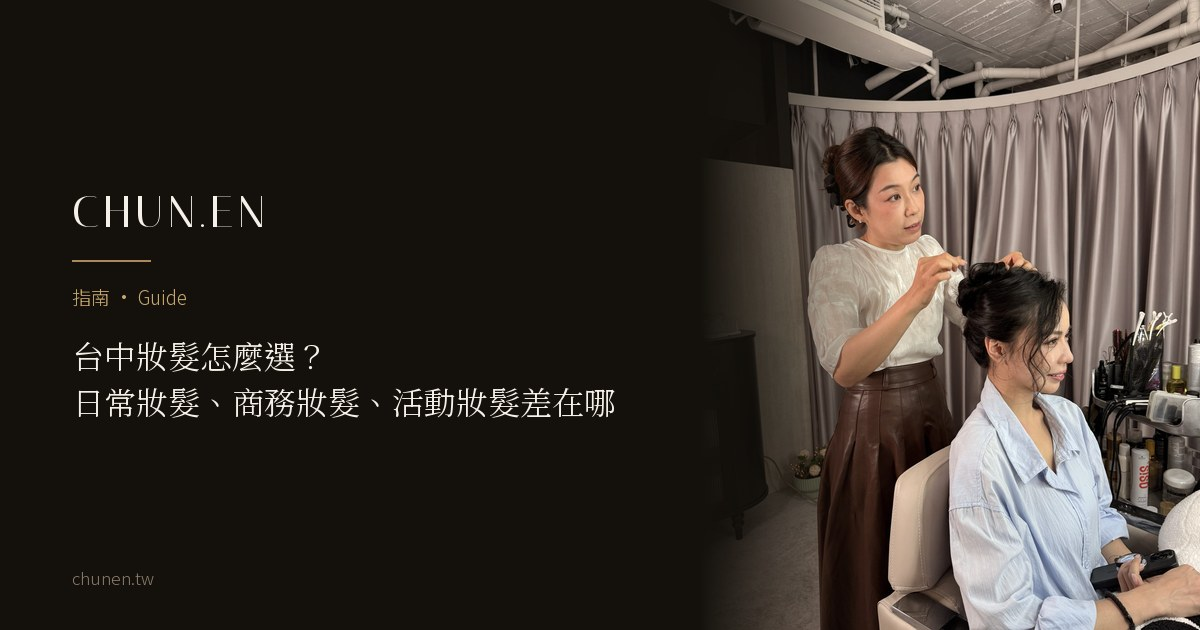
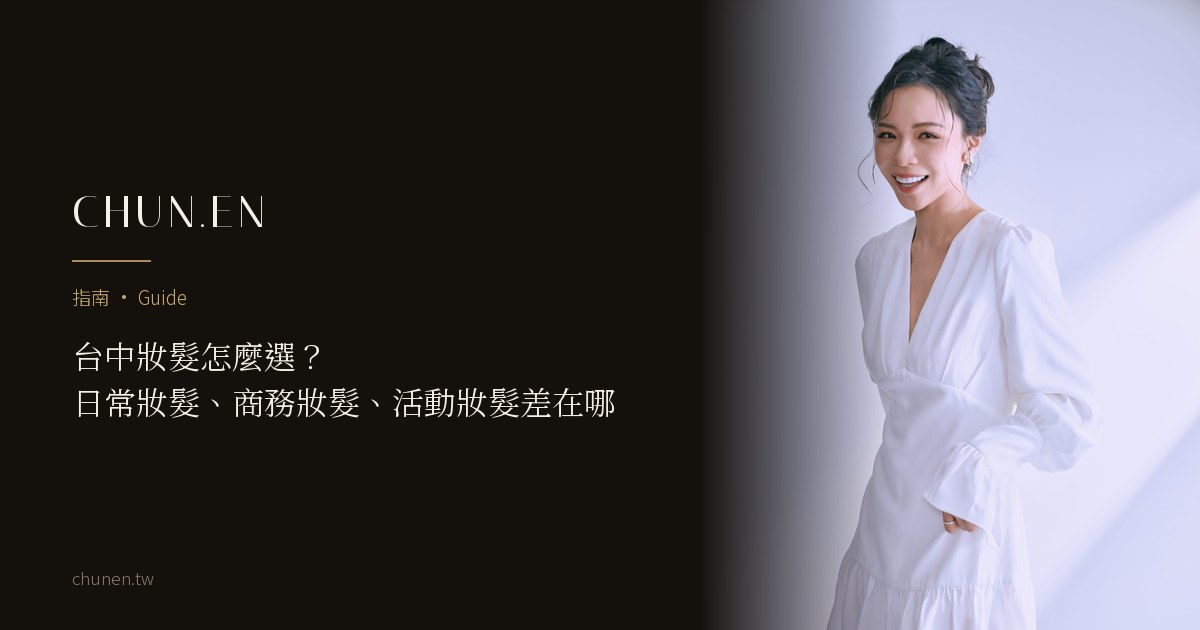
journal(B2)：三篇改用 Ori_Evoto 模特兒拍樣，活動篇不再用示意圖
老闆定調：照片不必完全切合主題，但照片不好看讀者看不下去。三篇改用 8/1 的
Ori_Evoto 模特兒拍樣（23 張，單人單套，白棚斜射光、明亮雜誌感）。
授權 user 確認無虞。

- 指南篇  hero DSC00238（站姿帶笑，好進入）／內文 DSC00223
- 商務篇  hero DSC00134（近景正面，盤髮與妝面清楚）／內文 DSC00157
- 活動篇  hero DSC00127（強光近景）／內文 DSC00555（user 指定，原挑的 362 已排除）

🎯 **活動篇的示意圖退場**。那張圖是 08/19 因為全庫沒有活動場景實拍才畫的，
一直是 B2 上架的卡點。現在有照片，hero 從 16:9 示意圖改回「整張不裁」的
直幅實拍，og 也從指向 PNG 改回正常的分享卡。內文圖同時補回（08/19 因無素材刪掉）。

🚨 順手修好一個全站靜默故障：`gen_og_cards.py` 的 hero 比對寫死
「jcard-media 後面直接接 img」，但 09/02 的 webp 改造把 hero 包進了
<picture><source>…<img>，正則從此對不上。**09/02 之後所有文章的 og 卡都產不出來，
而且回 0 張不報錯。** 已改成允許中間夾 picture/source。
⚠ 這代表 09/02 之後改過 hero 的文章，og 卡可能都還是舊的，要另外盤點。

備用素材（user 核准，已切好未使用）：
- event-hair-makeup-inline-alt543（DSC00543，橫幅 1400x933）
- event-hair-makeup-inline-alt081（DSC00081，直幅）

三篇 FAQ 與 schema 全部同步，圖檔零缺漏，仍 noindex。

diff --git a/journal/event-hair-makeup.html b/journal/event-hair-makeup.html
@@ -13,16 +13,16 @@
   <link rel="canonical" href="https://chunen.tw/journal/event-hair-makeup.html" />
   <meta property="og:title" content="活動妝髮：上台之前的最後一關" />
   <meta property="og:description" content="活動妝髮會多考慮舞台燈、攝影、觀看距離與活動時間。" />
-  <meta property="og:image" content="https://chunen.tw/assets/gallery/journal/event-hair-makeup-diagram-v1-1400.png" />
-  <meta property="og:image:width" content="1400" />
-  <meta property="og:image:height" content="788" />
+  <meta property="og:image" content="https://chunen.tw/assets/og/event-hair-makeup-og.jpg" />
+  <meta property="og:image:width" content="1200" />
+  <meta property="og:image:height" content="630" />
   <meta property="og:url" content="https://chunen.tw/journal/event-hair-makeup.html" />
   <meta property="og:type" content="article" />
   <meta property="og:locale" content="zh_TW" />
   <meta name="twitter:card" content="summary_large_image" />
   <meta name="twitter:title" content="活動妝髮：上台之前的最後一關" />
   <meta name="twitter:description" content="活動妝髮會多考慮舞台燈、攝影、觀看距離與活動時間。" />
-  <meta name="twitter:image" content="https://chunen.tw/assets/gallery/journal/event-hair-makeup-diagram-v1-1400.png" />
+  <meta name="twitter:image" content="https://chunen.tw/assets/og/event-hair-makeup-og.jpg" />
   <link rel="preconnect" href="https://fonts.googleapis.com" />
   <link rel="preconnect" href="https://fonts.gstatic.com" crossorigin />
   <link href="https://fonts.googleapis.com/css2?family=Italiana&family=Cormorant+Garamond:ital,wght@0,400;0,500;0,600;1,400;1,500&family=Noto+Serif+TC:wght@300;400&family=Noto+Sans+TC:wght@300;400;500&display=swap" rel="stylesheet" />
@@ -76,8 +76,8 @@
     </header>
 
     <div class="wrap article-wrap">
-      <div class="jcard-media rv" style="aspect-ratio: 16/9; overflow: hidden; margin-bottom: clamp(2.5rem, 6vh, 4rem);">
-        <picture style="display:block;width:100%;height:100%"><source type="image/webp" srcset="../assets/gallery/journal/event-hair-makeup-diagram-v1-760.webp 760w, ../assets/gallery/journal/event-hair-makeup-diagram-v1-1240.webp 1240w" sizes="min(940px, calc(100vw - 48px))" /><img src="../assets/gallery/journal/event-hair-makeup-diagram-v1-1400.png" alt="示意圖：活動妝髮的三個考量，燈光、距離與時間" style="width:100%;height:100%;object-fit:cover;" width="1400" height="788" fetchpriority="high" /></picture>
+      <div class="jcard-media rv" style="aspect-ratio: auto; width: auto; max-width: 620px; margin: 0 auto clamp(2.5rem, 6vh, 4rem);">
+        <picture style="display:block"><source type="image/webp" srcset="../assets/gallery/journal/event-hair-makeup-hero-v2-760.webp 760w, ../assets/gallery/journal/event-hair-makeup-hero-v2-1240.webp 1240w" sizes="(max-width: 700px) calc(100vw - 40px), 620px" /><img src="../assets/gallery/journal/event-hair-makeup-hero-v2-1400.jpg" alt="強光下的人物近景，手扶臉側，盤髮與妝面清楚" style="width:100%;height:auto;display:block;" width="1400" height="2100" fetchpriority="high" /></picture>
       </div>
 
       <div class="keypoints rv">
@@ -110,6 +110,11 @@
 
         <h2>哪些場合<em>常見活動妝髮需求</em></h2>
         <p>常見包括年會尾牙、頒獎典禮、正式晚宴、記者會、產品發表與講座。不同場合的燈光、服裝、拍攝方式與活動時間不同，妝髮也會跟著調整。如果同時需要準備講師人物影像，可延伸閱讀〈<a href="speaker-trainer-portrait.html">講師形象照</a>〉。</p>
+
+        <figure class="article-fig crop45">
+          <picture style="display:block"><source type="image/webp" srcset="../assets/gallery/journal/event-hair-makeup-inline-v2-760.webp 760w, ../assets/gallery/journal/event-hair-makeup-inline-v2-1240.webp 1240w" sizes="(max-width: 700px) calc(100vw - 40px), 620px" /><img src="../assets/gallery/journal/event-hair-makeup-inline-v2-1400.jpg" alt="人物坐在椅上的全身照，白棚與斜射光" width="1400" height="2100" loading="lazy" /></picture>
+          <figcaption>同一套妝髮，在不同燈光與距離下呈現的樣子不一樣。（CHUN.EN 妝髮造型）</figcaption>
+        </figure>
 
         <h2>企業團體妝髮<em>怎麼安排</em></h2>
         <p><strong>企業團體梳化除了人數，還要一起確認活動流程、完成時間、服裝與現場條件。</strong>B.room 會依專案安排造型師與梳化時程，因此<a class="fl-m" href="../enterprise.html">企業合作</a>不直接用單人的服務時間乘上人數。若同一場活動有多位主管或講者，也可延伸閱讀〈<a href="clinic-image-consistency.html">團隊一致性工程</a>〉。</p>
@@ -169,7 +174,7 @@
     "@type": "Article",
     "headline": "活動妝髮：上台之前的最後一關",
     "description": "活動妝髮相較日常妝髮，會多考慮舞台燈、攝影、觀看距離、活動時間與是否需要補整；企業團體則要一起確認流程、完成時間與現場條件。",
-    "image": "https://chunen.tw/assets/gallery/journal/event-hair-makeup-diagram-v1-1400.png",
+    "image": "https://chunen.tw/assets/og/event-hair-makeup-og.jpg",
     "author": {"@type": "Person", "@id": "https://chunen.tw/author/zoey-wu.html#zoey", "name": "吳惇恩", "alternateName": "Zoey Wu", "jobTitle": "Founder & Brand Director", "image": "https://chunen.tw/assets/images/zoey-author-640.jpg", "url": "https://chunen.tw/author/zoey-wu.html"},
     "publisher": {"@type": "Organization", "@id": "https://chunen.tw/#business", "name": "CHUN.EN 形象美學", "logo": {"@type": "ImageObject", "url": "https://chunen.tw/icon-512.png"}},
     "datePublished": "2026-07-19",

diff --git a/journal/hair-makeup-service-guide.html b/journal/hair-makeup-service-guide.html
@@ -77,7 +77,7 @@
 
     <div class="wrap article-wrap">
       <div class="jcard-media rv" style="aspect-ratio: auto; width: auto; max-width: 620px; margin: 0 auto clamp(2.5rem, 6vh, 4rem);">
-        <picture style="display:block"><source type="image/webp" srcset="../assets/gallery/journal/hair-makeup-service-guide-hero-full-v1-760.webp 760w, ../assets/gallery/journal/hair-makeup-service-guide-hero-full-v1-1240.webp 1240w" sizes="(max-width: 700px) calc(100vw - 40px), 620px" /><img src="../assets/gallery/journal/hair-makeup-service-guide-hero-full-v1-1400.jpg" alt="B.room 妝髮工作現場：造型師站在客戶身後收整盤髮，右側是整排造型工具與鏡台" style="width:100%;height:auto;display:block;" width="1400" height="1867" fetchpriority="high" /></picture>
+        <picture style="display:block"><source type="image/webp" srcset="../assets/gallery/journal/hair-makeup-service-guide-hero-v2-760.webp 760w, ../assets/gallery/journal/hair-makeup-service-guide-hero-v2-1240.webp 1240w" sizes="(max-width: 700px) calc(100vw - 40px), 620px" /><img src="../assets/gallery/journal/hair-makeup-service-guide-hero-v2-1400.jpg" alt="白棚斜射光下的人物全身照，白色長袖洋裝與盤髮" style="width:100%;height:auto;display:block;" width="1400" height="2100" fetchpriority="high" /></picture>
       </div>
 
       <div class="keypoints rv">
@@ -121,8 +121,8 @@
         <p>實際的服務內容與時間，會在 <a href="../b-room.html">B.room</a> 預約時一併確認。</p>
 
         <figure class="article-fig crop45">
-          <picture style="display:block"><source type="image/webp" srcset="../assets/gallery/journal/hair-makeup-service-guide-inline-v1-760.webp 760w, ../assets/gallery/journal/hair-makeup-service-guide-inline-v1-1240.webp 1240w" sizes="(max-width: 700px) calc(100vw - 40px), 620px" /><img src="../assets/gallery/journal/hair-makeup-service-guide-inline-v1-1400.jpg" alt="妝髮進行中的工作現場：客戶在鏡台前，造型師正在調整髮流" width="1400" height="1867" loading="lazy" /></picture>
-          <figcaption>B.room 依不同場合調整妝感與髮型。（CHUN.EN 工作現場）</figcaption>
+          <picture style="display:block"><source type="image/webp" srcset="../assets/gallery/journal/hair-makeup-service-guide-inline-v2-760.webp 760w, ../assets/gallery/journal/hair-makeup-service-guide-inline-v2-1240.webp 1240w" sizes="(max-width: 700px) calc(100vw - 40px), 620px" /><img src="../assets/gallery/journal/hair-makeup-service-guide-inline-v2-1400.jpg" alt="白棚中的人物站姿半身照，白色洋裝與盤髮" width="1400" height="2100" loading="lazy" /></picture>
+          <figcaption>B.room 依不同場合調整妝感與髮型。（CHUN.EN 妝髮造型）</figcaption>
         </figure>
 
         <h2>常見<em>問題</em></h2>

diff --git a/journal/business-hair-makeup.html b/journal/business-hair-makeup.html
@@ -77,7 +77,7 @@
 
     <div class="wrap article-wrap">
       <div class="jcard-media rv" style="aspect-ratio: auto; width: auto; max-width: 620px; margin: 0 auto clamp(2.5rem, 6vh, 4rem);">
-        <picture style="display:block"><source type="image/webp" srcset="../assets/gallery/journal/business-hair-makeup-hero-full-v1-760.webp 760w, ../assets/gallery/journal/business-hair-makeup-hero-full-v1-1240.webp 1240w" sizes="(max-width: 700px) calc(100vw - 40px), 620px" /><img src="../assets/gallery/journal/business-hair-makeup-hero-full-v1-1400.jpg" alt="拍攝前的最後整理：造型師為身著白色上衣的客戶調整髮絲" style="width:100%;height:auto;display:block;" width="1400" height="1867" fetchpriority="high" /></picture>
+        <picture style="display:block"><source type="image/webp" srcset="../assets/gallery/journal/business-hair-makeup-hero-v2-760.webp 760w, ../assets/gallery/journal/business-hair-makeup-hero-v2-1240.webp 1240w" sizes="(max-width: 700px) calc(100vw - 40px), 620px" /><img src="../assets/gallery/journal/business-hair-makeup-hero-v2-1400.jpg" alt="白棚近景人物照，盤髮與妝面在自然光下的細節" style="width:100%;height:auto;display:block;" width="1400" height="2100" fetchpriority="high" /></picture>
       </div>
 
       <div class="keypoints rv">
@@ -114,8 +114,8 @@
         <p>這些場合通常都需要事前準備，而<strong>妝髮是當天仍可以依實際狀態調整的部分</strong>。</p>
 
         <figure class="article-fig crop45">
-          <picture style="display:block"><source type="image/webp" srcset="../assets/gallery/journal/business-hair-makeup-inline-v1-760.webp 760w, ../assets/gallery/journal/business-hair-makeup-inline-v1-1240.webp 1240w" sizes="(max-width: 700px) calc(100vw - 40px), 620px" /><img src="../assets/gallery/journal/business-hair-makeup-inline-v1-1400.jpg" alt="商務妝髮完成後的狀態：髮流收整乾淨，妝面自然" width="1400" height="1867" loading="lazy" /></picture>
-          <figcaption>B.room 商務妝髮完成後的人物近照。（CHUN.EN 工作現場）</figcaption>
+          <picture style="display:block"><source type="image/webp" srcset="../assets/gallery/journal/business-hair-makeup-inline-v2-760.webp 760w, ../assets/gallery/journal/business-hair-makeup-inline-v2-1240.webp 1240w" sizes="(max-width: 700px) calc(100vw - 40px), 620px" /><img src="../assets/gallery/journal/business-hair-makeup-inline-v2-1400.jpg" alt="白棚側身人物照，髮流收整乾淨、妝面自然" width="1400" height="2100" loading="lazy" /></picture>
+          <figcaption>B.room 妝髮完成後的人物近照。（CHUN.EN 妝髮造型）</figcaption>
         </figure>
 
         <h2>男士商務妝髮：<em>常見的處理項目</em></h2>
